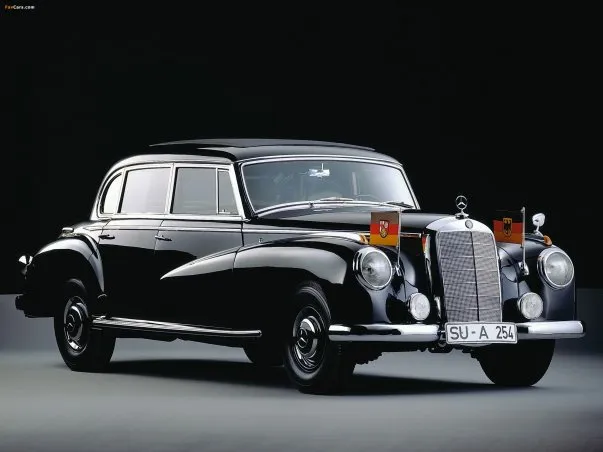
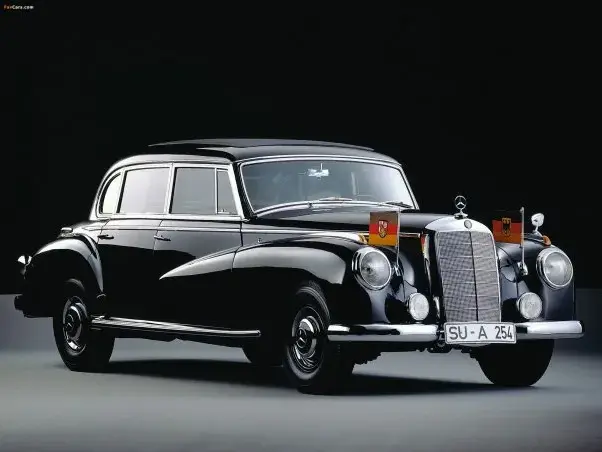
246

diff --git a/pic/ja_mb_img_l.html b/pic/ja_mb_img_l.html
@@ -347,8 +347,8 @@
 					</div>
 					<section>
 						<h4 class="displayNone">W186</h4>
-						<a href="full/l/w186_f.jpg"><img loading="lazy" src="style/l/w186_f.webp" alt="メルセデス,W186,フロント" width="603" height="452"></a>
-						<a href="full/l/w186_r.jpg"><img loading="lazy" src="style/l/w186_r.webp" alt="メルセデス,W186,リヤ" width="603" height="452"></a><br>
+						<a href="full/l/w186_f.jpg"><img loading="lazy" src="style/l/w186_f.webp" alt="メルセデス,W186,フロント" width="602" height="452"></a>
+						<a href="full/l/w186_r.jpg"><img loading="lazy" src="style/l/w186_r.webp" alt="メルセデス,W186,リヤ" width="602" height="452"></a><br>
 						<a href="full/l/w186_i.jpg"><img loading="lazy" src="style/l/w186_i.webp" alt="メルセデス,W186,内装" width="595" height="425"></a>
 						<a href="full/l/w186_d.jpg"><img loading="lazy" src="style/l/w186_d.webp" alt="メルセデス,W186,内装" width="610" height="425"></a>
 						<h5>Landaulet</h5>

diff --git a/pic/mb_img_l.html b/pic/mb_img_l.html
@@ -347,8 +347,8 @@
 					</div>
 					<section>
 						<h4 class="displayNone">W186</h4>
-						<a href="full/l/w186_f.jpg"><img loading="lazy" src="style/l/w186_f.webp" alt="Mercedes,W186,Frontansicht" width="603" height="452"></a>
-						<a href="full/l/w186_r.jpg"><img loading="lazy" src="style/l/w186_r.webp" alt="Mercedes,W186,Rückansicht" width="603" height="452"></a><br>
+						<a href="full/l/w186_f.jpg"><img loading="lazy" src="style/l/w186_f.webp" alt="Mercedes,W186,Frontansicht" width="602" height="452"></a>
+						<a href="full/l/w186_r.jpg"><img loading="lazy" src="style/l/w186_r.webp" alt="Mercedes,W186,Rückansicht" width="602" height="452"></a><br>
 						<a href="full/l/w186_i.jpg"><img loading="lazy" src="style/l/w186_i.webp" alt="Mercedes,W186,Innenansicht" width="595" height="425"></a>
 						<a href="full/l/w186_d.jpg"><img loading="lazy" src="style/l/w186_d.webp" alt="Mercedes,W186,Innenansicht" width="610" height="425"></a>
 						<h5>Landaulet</h5>

diff --git a/pic/en_mb_img_l.html b/pic/en_mb_img_l.html
@@ -347,8 +347,8 @@
 					</div>
 					<section>
 						<h4 class="displayNone">W186</h4>
-						<a href="full/l/w186_f.jpg"><img loading="lazy" src="style/l/w186_f.webp" alt="Mercedes,W186,Front view" width="603" height="452"></a>
-						<a href="full/l/w186_r.jpg"><img loading="lazy" src="style/l/w186_r.webp" alt="Mercedes,W186,Rear view" width="603" height="452"></a><br>
+						<a href="full/l/w186_f.jpg"><img loading="lazy" src="style/l/w186_f.webp" alt="Mercedes,W186,Front view" width="602" height="452"></a>
+						<a href="full/l/w186_r.jpg"><img loading="lazy" src="style/l/w186_r.webp" alt="Mercedes,W186,Rear view" width="602" height="452"></a><br>
 						<a href="full/l/w186_i.jpg"><img loading="lazy" src="style/l/w186_i.webp" alt="Mercedes,W186,Interior" width="595" height="425"></a>
 						<a href="full/l/w186_d.jpg"><img loading="lazy" src="style/l/w186_d.webp" alt="Mercedes,W186,Interior" width="610" height="425"></a>
 						<h5>Landaulet</h5>
